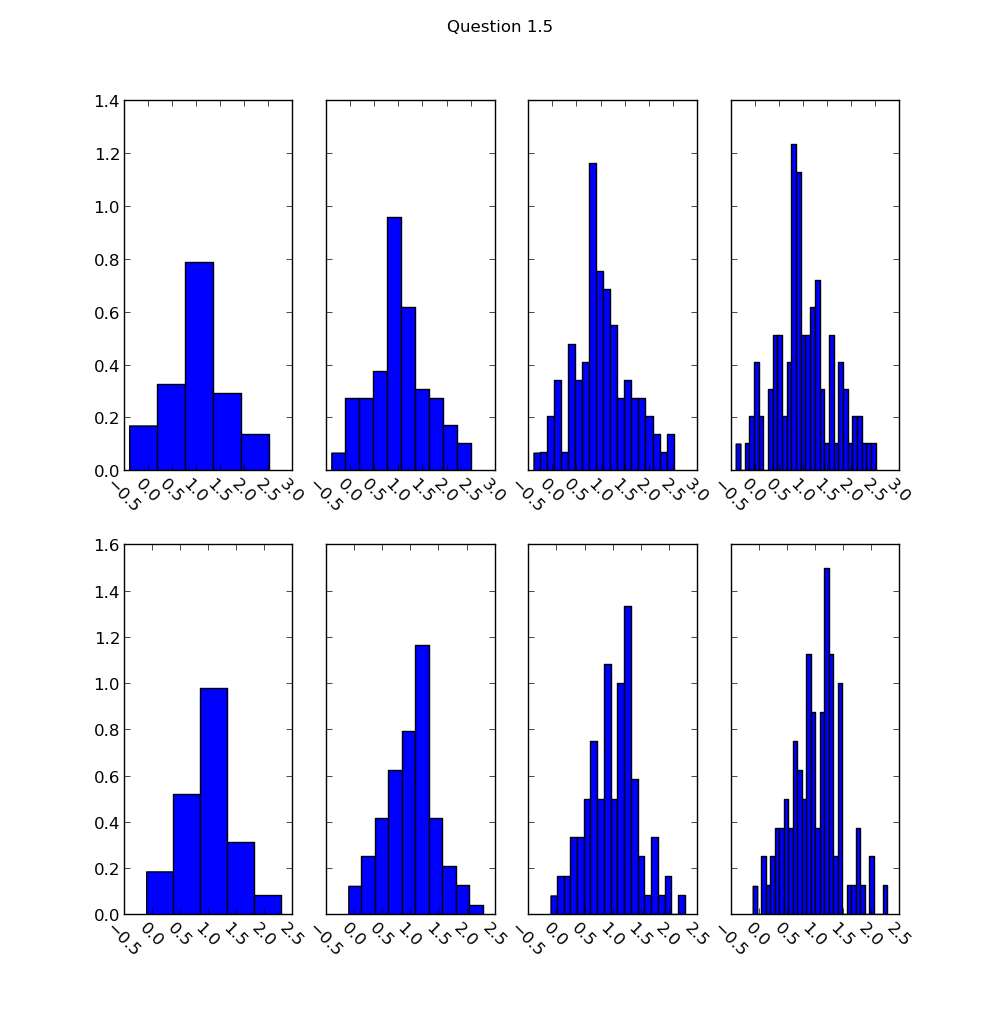
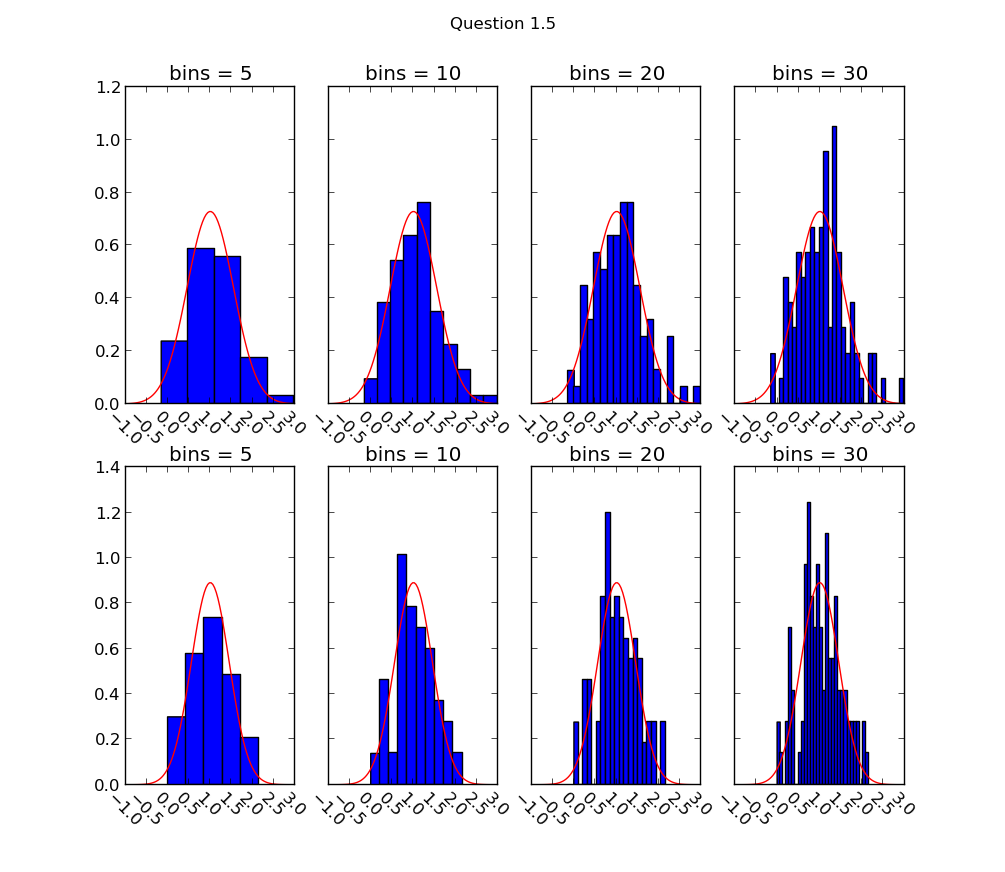
Small changes

Changed region(s): [[0.093, 0.0619, 0.93, 0.9599], [0.093, 0.1548, 0.124, 0.3716], [0.434, 0.0, 0.558, 0.031]]

diff --git a/rapport/assignment1/assignment1.tex b/rapport/assignment1/assignment1.tex
@@ -21,12 +21,20 @@ See the attached source.
 \section{Question 1.3}
 We see a deviation from the correct mean due to the values being randomly sampled. Thus it
 is unlikely that we get an exact match between the sample mean and the correct mean.
+
 \includegraphics[scale=0.6]{figure_2.png}
 \section{Question 1.4}
+In order to marginalize $x_c$ out, it is sufficient to simply drop the parts of $x$, $\mu$, and $\Sigma$ which contains subscript c's. 
 \section{Question 1.5}
 \includegraphics[scale=0.6]{figure_3.png}
+
+Increasing the number of bins makes the histogram more accurate up to a point. As can be seen from the examples with 30 bins, the histogram becomes more erratic, as two adjacent bins get very different heights due to random fluctutations.
 \section{Question 1.6}
-\includegraphics[scale=0.6]{figure_4.png}
+\includegraphics[scale=0.5]{figure_4.png}
+
+The analytical expression for the marginal distribution $p(x_1)$ is given by:
+
+$$ p(x_1) = \mathcal{N}(x_1 | 1, 0.3) $$
 \section{Question 1.7}
 \includegraphics[scale=0.6]{figure_5.png}
 \section{Question 1.8}

diff --git a/src/assignment1.py b/src/assignment1.py
@@ -3,7 +3,7 @@ import pylab as pl
 import numpy as np
 from PIL import Image
 import random
-from math import log, fabs
+from math import log, fabs, sqrt
 
 def gauss(x, mu, sigma):
     return 1/(np.sqrt(2*np.pi)*sigma) * np.exp(-((x-mu)**2)/(2*sigma**2))
@@ -66,12 +66,16 @@ f, axes = pl.subplots(2, 4, sharey='row')
 f.suptitle('Question 1.5')
 
 bins = [5,10,20,30]
+varians = [0.3, 0.2]
 samples = [xsamples, ysamples]
 
 for i in range(2):
     for j in range(4):
         axes[i,j].hist(samples[i], normed=True, bins=bins[j])
         axes[i,j].set_title('bins = %d' % bins[j])
+        x = np.mgrid[-1:3:100j]
+        value = gauss(x,1,sqrt(varians[i]))
+        axes[i,j].plot(x,value,'r-')
 
 for foo in axes:
     for axis in foo:
@@ -84,9 +88,9 @@ pl.show()
 pl.figure()
 pl.title('Question 1.6')
 xs = np.mgrid[-1:3:100j]
-vs = gauss(xs, mu[0,0], sigma[0,0])
+vs = gauss(xs, mu[0,0], sqrt(sigma[0,0]))
 
-pl.hist(xsamples, normed=True, bins=30, color='g')
+pl.hist(xsamples, normed=True, bins=20, color='g')
 pl.plot(xs, vs, 'r-')
 
 pl.show()
